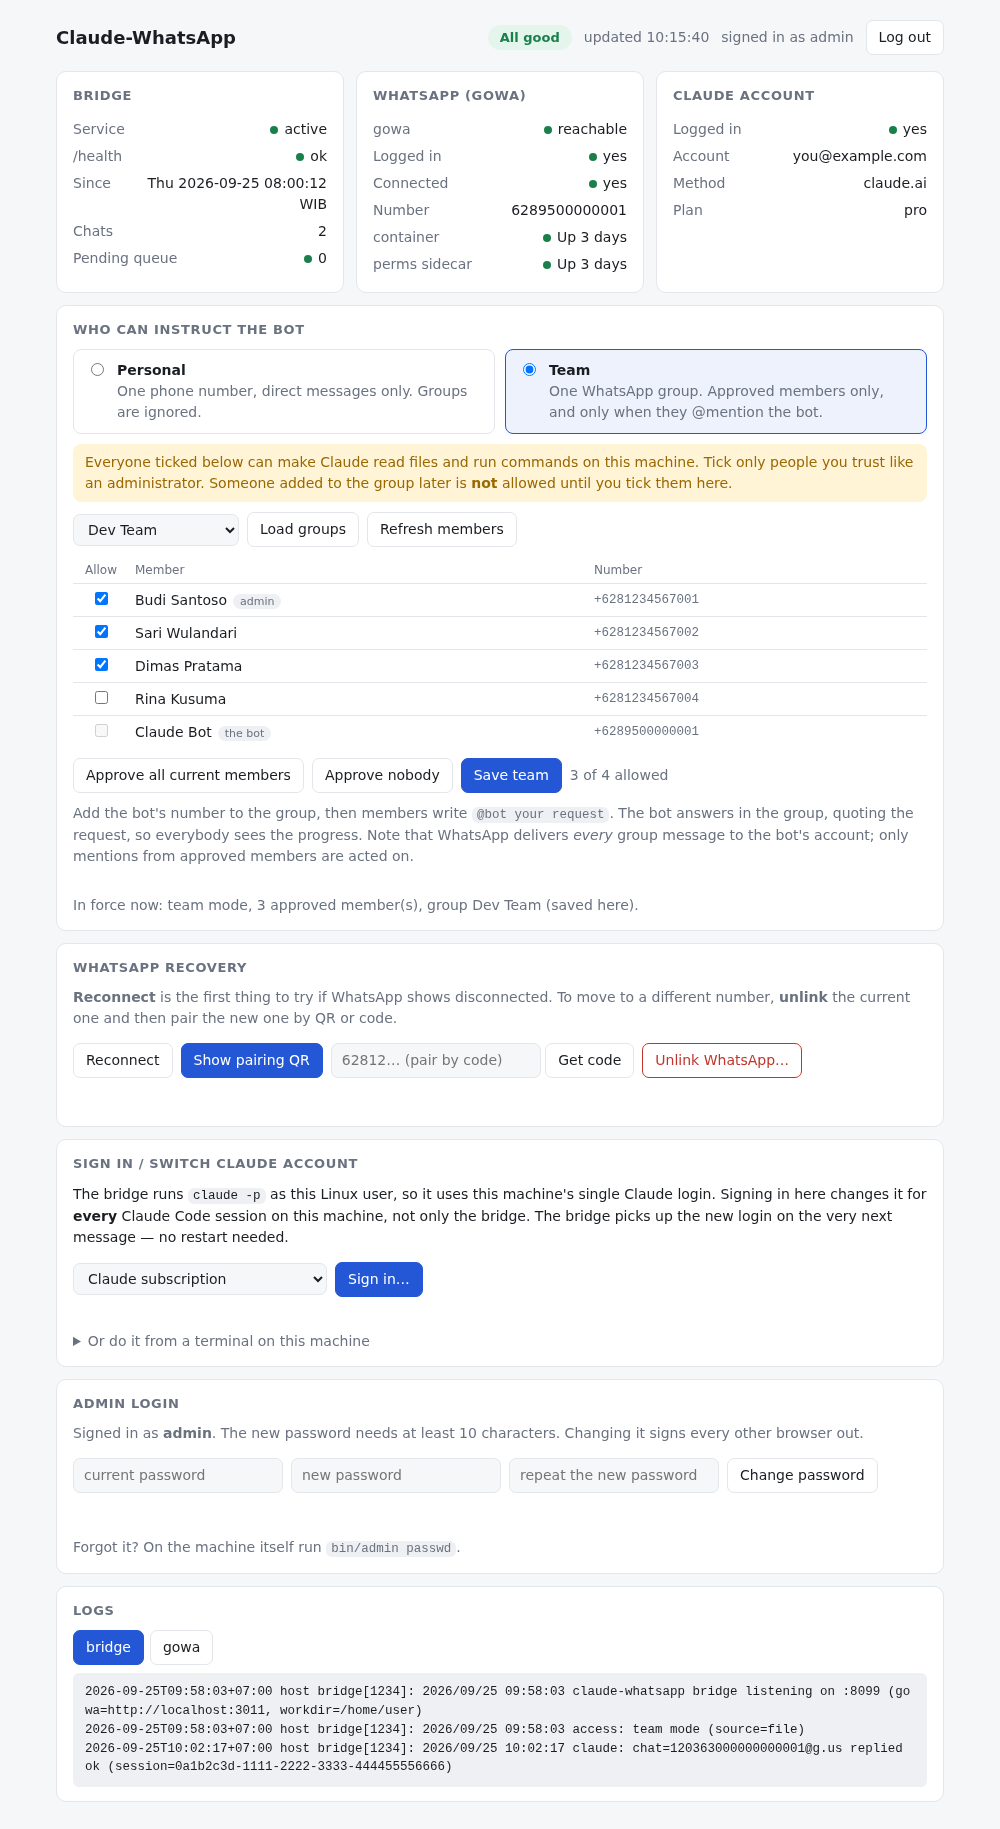
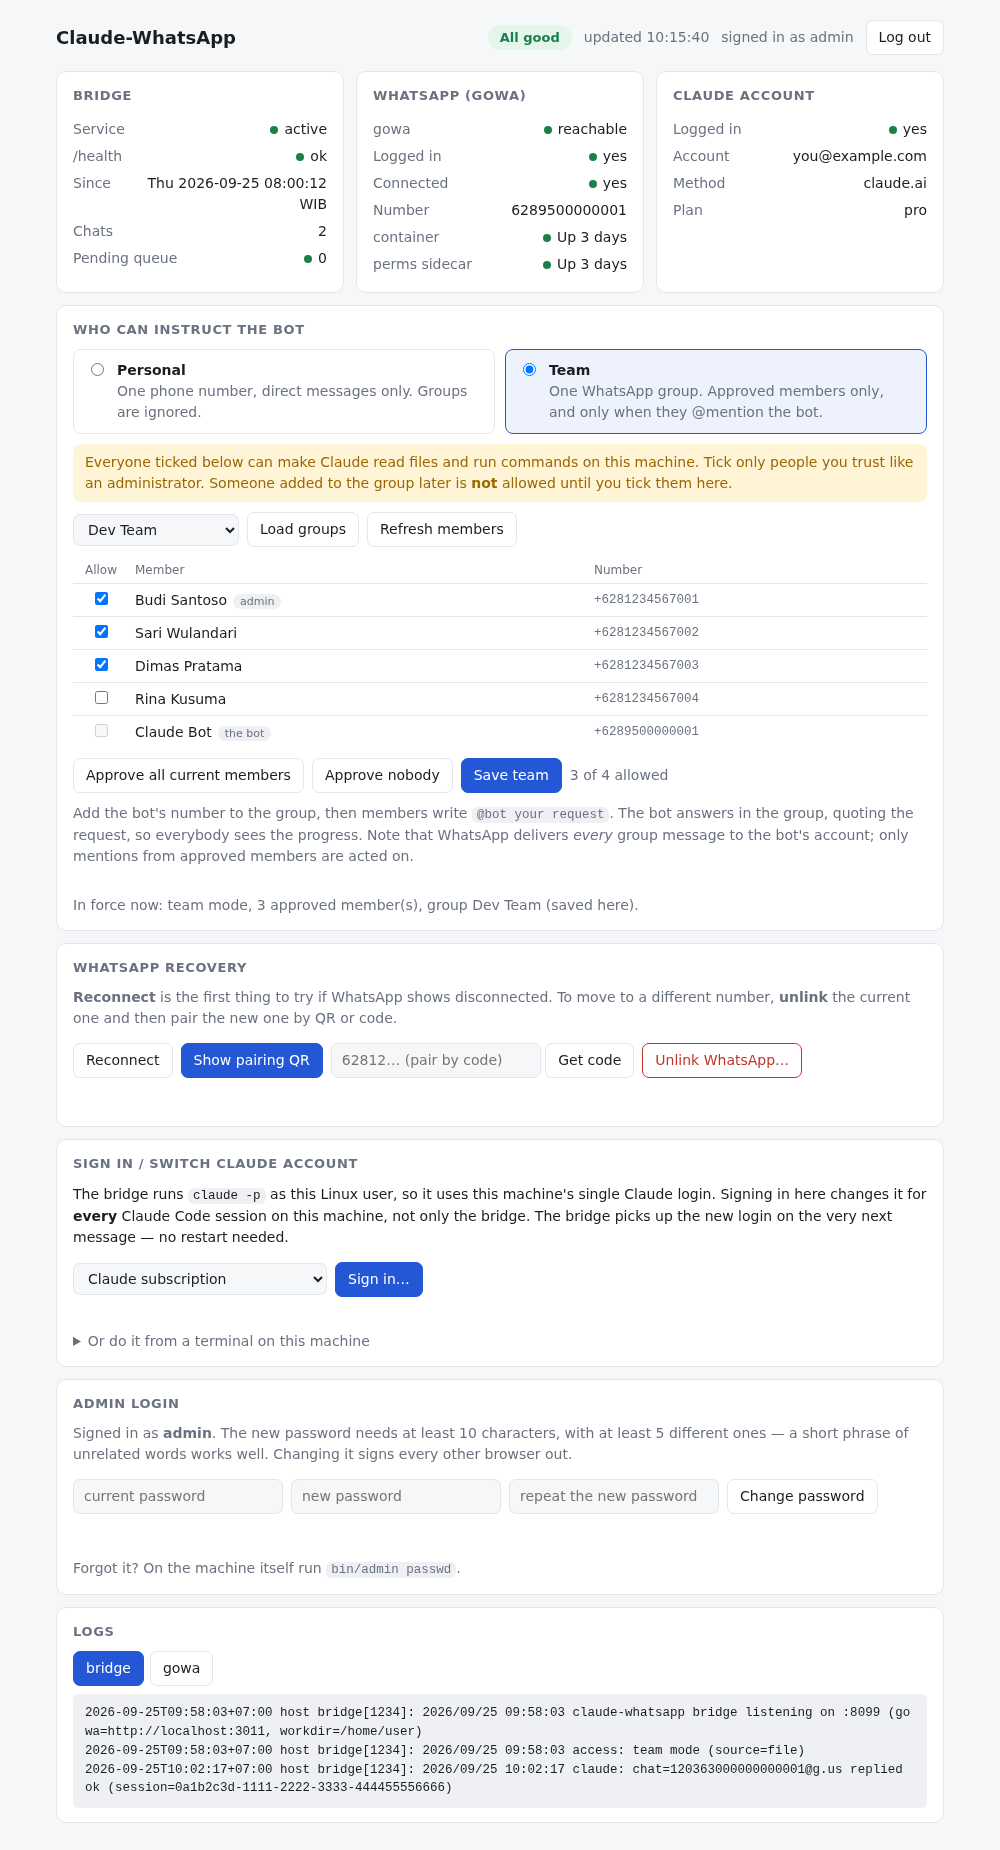
fix: make the password rules explicit and report every broken rule at once
A user trying to change the admin password got two different complaints on
two attempts ("too repetitive", then "at least 10 characters") and found the
rules hard to guess.

- the refusal now lists every rule that was broken, with the numbers and a
  plain-language requirement ("at least 10 characters, with at least 5
  different ones - a short phrase of unrelated words works well")
- the requirement is shown up front on the account-creation form, in the
  change-password card and in the `admin passwd` prompt
- the rules themselves are unchanged; boundaries (9/10 characters, 4/5
  different) and friendly examples (a phrase with spaces) are now tested
- README (EN/ID), ARCHITECTURE (EN/ID) and CHANGELOG describe them;
  screenshots regenerated

diff --git a/internal/admin/web/login.html b/internal/admin/web/login.html
@@ -48,6 +48,7 @@
       <label for="again">Repeat the password</label>
       <input id="again" type="password" autocomplete="new-password">
     </div>
+    <p id="rules" class="muted" style="font-size:12px;margin:8px 0 0" hidden>At least 10 characters, with at least 5 different ones. A short phrase of unrelated words works well (for example three words with spaces).</p>
     <div class="row"><input id="show" type="checkbox"><label for="show" style="margin:0">Show password</label></div>
     <button id="go" type="submit">Sign in</button>
   </form>
@@ -80,7 +81,7 @@ async function init() {
     $('title').textContent = 'Create the admin login';
     $('lead').textContent = 'Choose the username and password you will use to open this page. The password is stored only as a hash.';
     $('user').value = 'admin';
-    $('pass').autocomplete = 'new-password'; $('pass-label').textContent = 'Password (at least 10 characters)';
+    $('pass').autocomplete = 'new-password'; $('pass-label').textContent = 'Password'; $('rules').hidden = false;
     $('again-wrap').hidden = false; $('again').required = true;
     $('go').textContent = 'Create login';
     $('form').hidden = false; $('user').focus();

diff --git a/internal/admin/web/index.html b/internal/admin/web/index.html
@@ -199,7 +199,7 @@
 
   <section class="card">
     <h2>Admin login</h2>
-    <p style="margin-top:0" class="muted">Signed in as <b id="acct-user">…</b>. The new password needs at least 10 characters. Changing it signs every other browser out.</p>
+    <p style="margin-top:0" class="muted">Signed in as <b id="acct-user">…</b>. The new password needs at least 10 characters, with at least 5 different ones — a short phrase of unrelated words works well. Changing it signs every other browser out.</p>
     <div class="actions">
       <input id="pw-current" type="password" autocomplete="current-password" placeholder="current password">
       <input id="pw-new" type="password" autocomplete="new-password" placeholder="new password">

diff --git a/internal/adminauth/adminauth_test.go b/internal/adminauth/adminauth_test.go
@@ -301,3 +301,55 @@ func TestLimiterLocksOutAndBacksOff(t *testing.T) {
 		t.Fatalf("lock exceeded one hour: %v", wait)
 	}
 }
+
+func TestPasswordErrorsExplainEverythingAtOnce(t *testing.T) {
+	// The user's own experience: two separate attempts, two different
+	// complaints. One attempt must be enough to learn every rule that failed.
+	err := ValidatePassword("aaaa", "admin")
+	if err == nil {
+		t.Fatal("expected a rejection")
+	}
+	for _, want := range []string{
+		"4 character(s) long and at least 10 are needed",
+		"only 1 different character(s) and at least 5 are needed",
+		"Use " + PasswordRules,
+	} {
+		if !strings.Contains(err.Error(), want) {
+			t.Errorf("message lacks %q:\n%s", want, err)
+		}
+	}
+
+	// Only the rule that failed is mentioned.
+	err = ValidatePassword("abcdefghijklmnop"[:9], "admin")
+	if err == nil || !strings.Contains(err.Error(), "9 character(s)") || strings.Contains(err.Error(), "different character") {
+		t.Errorf("a 9-character password with enough variety should only complain about length: %v", err)
+	}
+	err = ValidatePassword("abababababab", "admin")
+	if err == nil || !strings.Contains(err.Error(), "only 2 different") || strings.Contains(err.Error(), "long and at least") {
+		t.Errorf("a long repetitive password should only complain about variety: %v", err)
+	}
+	if err := ValidatePassword("Administrator", "administrator"); err == nil || !strings.Contains(err.Error(), "same as the username") {
+		t.Errorf("password equal to the username: %v", err)
+	}
+}
+
+func TestPasswordBoundariesAndFriendlyExamples(t *testing.T) {
+	for _, ok := range []string{
+		"abcde12345",           // exactly 10 characters, 10 different
+		"aabbccddee",           // exactly 10 characters, exactly 5 different
+		"kopi hitam pagi hari", // a plain phrase with spaces
+		"kucing biru makan roti",
+	} {
+		if err := ValidatePassword(ok, "admin"); err != nil {
+			t.Errorf("%q should be accepted: %v", ok, err)
+		}
+	}
+	for _, bad := range []string{"abcde1234", "aabbccdd11"[:9], "aabbccddaa"} { // 9 chars; 9 chars; 10 chars but 4 different
+		if err := ValidatePassword(bad, "admin"); err == nil {
+			t.Errorf("%q should be rejected", bad)
+		}
+	}
+	if !strings.Contains(PasswordRules, "10") || !strings.Contains(PasswordRules, "5") {
+		t.Errorf("PasswordRules must state the numbers: %q", PasswordRules)
+	}
+}

diff --git a/internal/adminauth/adminauth.go b/internal/adminauth/adminauth.go
@@ -62,26 +62,39 @@ func ValidateUsername(u string) error {
 	return nil
 }
 
+// MinDistinctChars keeps "aaaaaaaaaa" out without demanding symbols or digits.
+const MinDistinctChars = 5
+
+// PasswordRules is the requirement in plain words, shown wherever a password
+// is chosen so nobody has to guess it from an error message.
+const PasswordRules = "at least 10 characters, with at least 5 different ones — a short phrase of unrelated words works well"
+
 // ValidatePassword enforces a sane minimum; the real protection is that the
-// hash is slow and guessing is rate-limited.
+// hash is slow and guessing is rate-limited. Every broken rule is reported at
+// once, with the numbers, so one attempt is enough to learn what is needed.
 func ValidatePassword(pw, username string) error {
+	var problems []string
 	n := utf8.RuneCountInString(pw)
-	switch {
-	case n < MinPasswordLen:
-		return fmt.Errorf("password must be at least %d characters", MinPasswordLen)
-	case n > MaxPasswordLen:
-		return fmt.Errorf("password must be at most %d characters", MaxPasswordLen)
-	case strings.EqualFold(pw, username):
-		return errors.New("password must not be the same as the username")
+	if n < MinPasswordLen {
+		problems = append(problems, fmt.Sprintf("it is %d character(s) long and at least %d are needed", n, MinPasswordLen))
+	}
+	if n > MaxPasswordLen {
+		problems = append(problems, fmt.Sprintf("it is longer than the %d characters allowed", MaxPasswordLen))
+	}
+	if username != "" && strings.EqualFold(pw, username) {
+		problems = append(problems, "it is the same as the username")
 	}
 	distinct := map[rune]bool{}
 	for _, r := range pw {
 		distinct[r] = true
 	}
-	if len(distinct) < 5 {
-		return errors.New("password is too repetitive — use at least 5 different characters")
+	if len(distinct) < MinDistinctChars {
+		problems = append(problems, fmt.Sprintf("it uses only %d different character(s) and at least %d are needed (something like aaaaaaaaaa is not accepted)", len(distinct), MinDistinctChars))
 	}
-	return nil
+	if len(problems) == 0 {
+		return nil
+	}
+	return fmt.Errorf("password not accepted — %s. Use %s", strings.Join(problems, ", and "), PasswordRules)
 }
 
 func derive(password string, salt []byte, iterations int) ([]byte, error) {

diff --git a/cmd/admin/passwd.go b/cmd/admin/passwd.go
@@ -86,7 +86,7 @@ func runPasswd(e passwdEnv, args []string) int {
 		}
 		var lastErr error
 		for attempt := 0; attempt < 3; attempt++ {
-			pw, err := e.secret("New password (min 10 characters): ")
+			pw, err := e.secret("New password (at least 10 characters, 5 different ones): ")
 			if err != nil {
 				fmt.Fprintln(e.errw, "error:", err)
 				return 1

diff --git a/docs/ARCHITECTURE.md b/docs/ARCHITECTURE.md
@@ -360,7 +360,7 @@ The **Admin UI** (`cmd/admin`, `internal/admin`) is a separate process from the 
 
 Notes on gowa behaviour that shaped the design: the device list is read from `GET /devices` (not `/app/devices`, which answers 400 when the registry is empty), and `/app/logout` on an already-dead session still deletes the device record but then returns an error — the Admin UI treats that as success as long as the device is gone afterwards.
 
-**Admin login** (`internal/adminauth`, `internal/admin/auth.go`). `authGate` sits behind the network `guard`: without a live session, API calls get `401` and page loads are redirected to `/login`. A session is bound to the password's fingerprint (its salt), so changing the password anywhere — the UI, or `bin/admin passwd` run while the admin is up — signs every browser out. The account is created by the installer, by the setup page on the machine itself, or by `bin/admin passwd` (also the recovery path when the password is forgotten: it needs no login because it can only run on the host, as a user who can already read the file). A password given the old way (`ADMIN_PASSWORD` in `.env`) is adopted once at the first start. The package needs no third-party module.
+**Admin login** (`internal/adminauth`, `internal/admin/auth.go`). `authGate` sits behind the network `guard`: without a live session, API calls get `401` and page loads are redirected to `/login`. A session is bound to the password's fingerprint (its salt), so changing the password anywhere — the UI, or `bin/admin passwd` run while the admin is up — signs every browser out. The account is created by the installer, by the setup page on the machine itself, or by `bin/admin passwd` (also the recovery path when the password is forgotten: it needs no login because it can only run on the host, as a user who can already read the file). A password given the old way (`ADMIN_PASSWORD` in `.env`) is adopted once at the first start. A new password must have at least 10 characters with at least 5 distinct ones (`adminauth.ValidatePassword`; no character classes are demanded) and a refusal lists every broken rule with the numbers, so one attempt is enough to learn what is needed. The package needs no third-party module.
 
 **Claude sign-in from the UI** runs `claude auth login --claudeai|--console` as a subprocess with a piped stdin, takes the first `https://…` URL from its output, then writes the code the operator pastes to stdin (the `Paste code here if prompted >` prompt). The PKCE verifier never leaves the `claude` process. Only one sign-in session is active at a time, capped at 10 minutes, and each run gets a generation number so an old process that finishes late can't overwrite the state of a new run. The `claude` credential applies to the whole Linux user (every Claude Code session), not just the bridge. This flow was tested with a fake `claude` script that mimics the CLI's transcript; if the CLI's output format changes in a future version, the fallback remains `claude auth login` in a terminal.
 

diff --git a/docs/ARCHITECTURE.id.md b/docs/ARCHITECTURE.id.md
@@ -360,7 +360,7 @@ Detail lengkap format payload webhook: `docs/webhook-payload.md` di [repo gowa](
 
 Catatan perilaku gowa yang memengaruhi desainnya: daftar device diambil dari `GET /devices` (bukan `/app/devices`, yang menjawab 400 saat registry kosong), dan `/app/logout` pada sesi yang sudah mati tetap menghapus record device tetapi lalu mengembalikan error — Admin UI menganggapnya sukses selama device-nya hilang sesudahnya.
 
-**Login admin** (`internal/adminauth`, `internal/admin/auth.go`). `authGate` berada di belakang `guard` jaringan: tanpa sesi yang hidup, panggilan API mendapat `401` dan pemuatan halaman dialihkan ke `/login`. Sesi terikat pada fingerprint password (salt-nya), jadi mengganti password di mana pun — UI, atau `bin/admin passwd` yang dijalankan saat admin hidup — mengeluarkan semua browser. Akun dibuat oleh installer, oleh halaman setup di mesin itu sendiri, atau oleh `bin/admin passwd` (juga jalur pemulihan kalau password lupa: tidak butuh login karena hanya bisa dijalankan di host, oleh user yang memang sudah bisa membaca filenya). Password yang diberikan cara lama (`ADMIN_PASSWORD` di `.env`) diadopsi sekali pada start pertama. Paket ini tidak butuh modul pihak ketiga.
+**Login admin** (`internal/adminauth`, `internal/admin/auth.go`). `authGate` berada di belakang `guard` jaringan: tanpa sesi yang hidup, panggilan API mendapat `401` dan pemuatan halaman dialihkan ke `/login`. Sesi terikat pada fingerprint password (salt-nya), jadi mengganti password di mana pun — UI, atau `bin/admin passwd` yang dijalankan saat admin hidup — mengeluarkan semua browser. Akun dibuat oleh installer, oleh halaman setup di mesin itu sendiri, atau oleh `bin/admin passwd` (juga jalur pemulihan kalau password lupa: tidak butuh login karena hanya bisa dijalankan di host, oleh user yang memang sudah bisa membaca filenya). Password yang diberikan cara lama (`ADMIN_PASSWORD` di `.env`) diadopsi sekali pada start pertama. Password baru harus minimal 10 karakter dengan minimal 5 karakter berbeda (`adminauth.ValidatePassword`; tanpa keharusan kelas karakter) dan penolakannya menyebut setiap aturan yang dilanggar beserta angkanya, jadi satu percobaan cukup untuk tahu apa yang dibutuhkan. Paket ini tidak butuh modul pihak ketiga.
 
 **Login Claude dari UI** menjalankan `claude auth login --claudeai|--console` sebagai subprocess dengan stdin pipe, mengambil URL `https://…` pertama dari outputnya, lalu menulis kode yang ditempel operator ke stdin (prompt `Paste code here if prompted >`). PKCE verifier tidak pernah keluar dari proses `claude`. Hanya satu sesi login aktif sekaligus, dibatasi 10 menit, dan tiap run diberi nomor generasi supaya proses lama yang baru selesai tidak menimpa state run baru. Kredensial `claude` berlaku untuk seluruh user Linux (semua sesi Claude Code), bukan hanya bridge. Alur ini diuji dengan skrip `claude` tiruan yang meniru transkrip CLI; jika format output CLI berubah di versi mendatang, jalur cadangannya tetap `claude auth login` di terminal.
 

diff --git a/README.id.md b/README.id.md
@@ -58,7 +58,7 @@ Jalankan sebagai **user biasa, bukan `sudo`**:
 curl -sSL https://raw.githubusercontent.com/tarkiman/claude-whatsapp/main/scripts/quick-install.sh | bash
 ```
 
-Installer mengunduh rilis siap pakai, menanyakan **nomor pengirim** Anda (nomor HP Anda dengan kode negara, tanpa 0 di depan — mis. `6281234567890`) dan **username serta password halaman admin** (diketik tanpa tampil di layar, minimal 10 karakter), membuat `.env` dengan secret acak, menjalankan gowa via Docker Compose, dan memasang service bridge + admin. Semuanya masuk ke `~/claude-whatsapp`.
+Installer mengunduh rilis siap pakai, menanyakan **nomor pengirim** Anda (nomor HP Anda dengan kode negara, tanpa 0 di depan — mis. `6281234567890`) dan **username serta password halaman admin** (diketik tanpa tampil di layar; minimal 10 karakter dengan minimal 5 karakter berbeda — frasa pendek dari kata-kata yang tidak berhubungan sudah cukup), membuat `.env` dengan secret acak, menjalankan gowa via Docker Compose, dan memasang service bridge + admin. Semuanya masuk ke `~/claude-whatsapp`.
 
 <details>
 <summary>Opsi installer</summary>
@@ -148,6 +148,7 @@ Status `Down` + "WhatsApp is logged out" berarti sesi WhatsApp dihapus (mis. dev
 
 Halaman ini berada di balik login sendiri: **satu akun**, username dan password dipilih saat instalasi. Password disimpan hanya sebagai hash PBKDF2 ber-salt di `~/.claude-whatsapp/admin.json` (mode `0600`), tidak pernah di `.env`, dan tidak pernah dikirim ke mana pun. Cookie sesi (`HttpOnly`, `SameSite=Strict`) membuat Anda tetap masuk paling lama 12 jam (30 menit kalau tidak aktif); admin yang restart membuat semua orang keluar.
 
+- **Aturan password:** minimal 10 karakter, dengan minimal 5 karakter berbeda. Tidak dipaksa memakai angka atau simbol — frasa pendek dari kata-kata yang tidak berhubungan (dengan spasi) boleh dan lebih mudah diingat daripada deretan acak. Kalau password ditolak, pesannya menyebut semua aturan yang dilanggar, lengkap dengan angkanya.
 - **Ganti password** di kartu *Admin login* (meminta password saat ini; semua browser lain otomatis keluar). **Log out** ada di kanan atas.
 - **Tebakan dibatasi:** setelah 5 password salah, klien dikunci 5 menit, dan menggandakan waktunya setiap kali terulang (sampai satu jam).
 - **Lupa password?** Di mesin itu sendiri jalankan `~/claude-whatsapp/bin/admin passwd` (atau `bin/admin passwd` di checkout source). Perintah ini hanya bisa dijalankan di sana, oleh user yang memang sudah bisa membaca filenya, jadi tidak butuh login. Dengan `--user` Anda juga bisa mengganti nama akun.

diff --git a/README.md b/README.md
@@ -58,7 +58,7 @@ Run as a **regular user, not with `sudo`**:
 curl -sSL https://raw.githubusercontent.com/tarkiman/claude-whatsapp/main/scripts/quick-install.sh | bash
 ```
 
-The installer downloads a prebuilt release, asks for your **sender number** (your own phone number with country code and no leading 0, e.g. `6281234567890`) and for the **username and password of the admin page** (typed without echo, at least 10 characters), creates `.env` with random secrets, starts gowa with Docker Compose, and installs the bridge and admin services. Everything goes into `~/claude-whatsapp`.
+The installer downloads a prebuilt release, asks for your **sender number** (your own phone number with country code and no leading 0, e.g. `6281234567890`) and for the **username and password of the admin page** (typed without echo; at least 10 characters with at least 5 different ones — a short phrase of unrelated words works well), creates `.env` with random secrets, starts gowa with Docker Compose, and installs the bridge and admin services. Everything goes into `~/claude-whatsapp`.
 
 <details>
 <summary>Installer options</summary>
@@ -148,6 +148,7 @@ A status and recovery page at `http://127.0.0.1:8098`, run as its own service (`
 
 The page is behind its own login: **one account**, username and password chosen at install time. The password is stored only as a salted PBKDF2 hash in `~/.claude-whatsapp/admin.json` (mode `0600`), never in `.env`, and never sent anywhere. A session cookie (`HttpOnly`, `SameSite=Strict`) keeps you signed in for up to 12 hours (30 minutes idle); the admin restarting signs everybody out.
 
+- **Password rules:** at least 10 characters, with at least 5 different ones. No digits or symbols are demanded — a short phrase of unrelated words (with spaces) is fine and easier to remember than a jumble. If a password is refused, the message lists every rule it broke, with the numbers.
 - **Change the password** in the *Admin login* card (asks for the current one; every other browser is signed out). **Log out** is at the top right.
 - **Guessing is throttled:** after 5 wrong passwords a client is locked out for 5 minutes, doubling each time it happens again (up to an hour).
 - **Forgot the password?** On the machine itself run `~/claude-whatsapp/bin/admin passwd` (or `bin/admin passwd` in a source checkout). It can only be run there, by a user who can already read the file, so it needs no login. It also lets you rename the account with `--user`.

diff --git a/CHANGELOG.md b/CHANGELOG.md
@@ -16,6 +16,7 @@ All notable changes per release. Versions follow [semantic versioning](https://s
 - **Login for the Admin UI**: one account whose password is stored only as a salted PBKDF2-SHA256 hash (600,000 iterations, standard library) in `~/.claude-whatsapp/admin.json` (`ADMIN_AUTH_FILE`, mode `0600`) — never in `.env`.
   - login page, session cookie (`HttpOnly`, `SameSite=Strict`, `Secure` behind TLS), sessions expire after 30 minutes idle / 12 hours;
   - **Change password** card (asks for the current password, signs every other browser out) and **Log out**;
+  - password rules stated up front (at least 10 characters with at least 5 different ones; no digits/symbols demanded, a short phrase works) and a refusal lists every rule it broke, with the numbers;
   - guess throttling: 5 wrong passwords lock a client out for 5 minutes, doubling each time (up to an hour);
   - first-time setup page that only works from the machine itself and only while no account exists;
   - `bin/admin passwd [--user NAME] [--stdin]` to create or reset the login from a terminal — the recovery path for a forgotten password;
